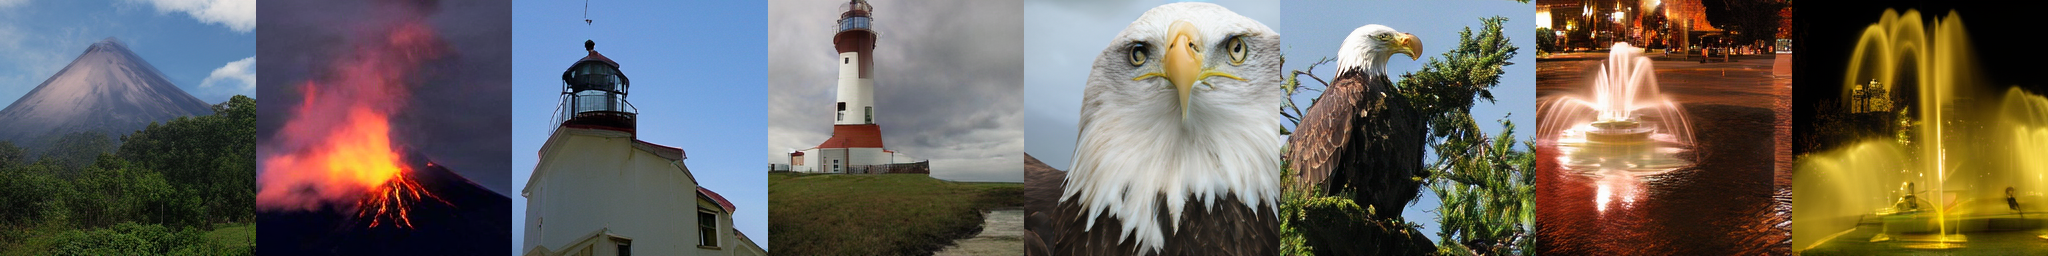
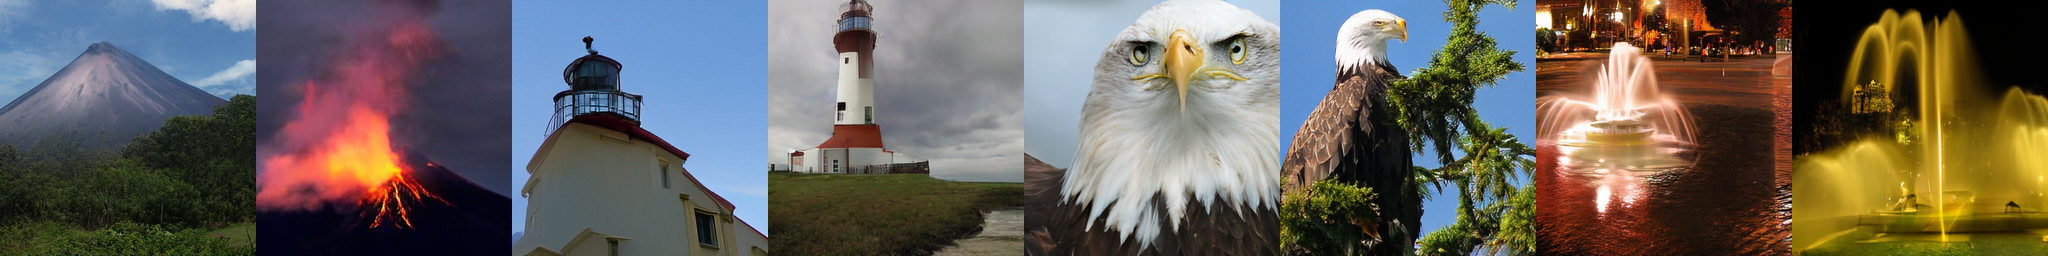
Done lora only Inference

diff --git a/models/lora_utils.py b/models/lora_utils.py
@@ -1,0 +1,29 @@
+import torch
+import torch.nn as nn
+
+class LoRALinear(nn.Module):
+    def __init__(self, in_dim, out_dim, rank=4, scale=1.0, lora_only=False, bias=True):
+        super().__init__()
+        self.lora_only = lora_only
+        self.scale = scale
+        self.rank = rank
+
+        if not lora_only:
+            self.weight = nn.Parameter(torch.empty(out_dim, in_dim))
+            nn.init.kaiming_uniform_(self.weight, a=5 ** 0.5)
+        else:
+            self.weight = None
+
+        self.lora_A = nn.Parameter(torch.randn(rank, in_dim) * 0.01)
+        self.lora_B = nn.Parameter(torch.randn(out_dim, rank) * 0.01)
+        self.bias = nn.Parameter(torch.zeros(out_dim)) if bias else None
+
+    def forward(self, x):
+        delta = self.lora_B @ self.lora_A  # (out_dim x in_dim)
+        w_eff = delta * self.scale
+        if not self.lora_only:
+            w_eff = w_eff + self.weight
+        out = x @ w_eff.T
+        if self.bias is not None:
+            out += self.bias
+        return out

diff --git a/models/basic_var.py b/models/basic_var.py
@@ -6,6 +6,9 @@ import torch.nn.functional as F
 
 from models.helpers import DropPath, drop_path
 
+#! Add lora import
+from models.lora_utils import LoRALinear
+
 
 # this file only provides the 3 blocks used in VAR transformer
 __all__ = ['FFN', 'AdaLNSelfAttn', 'AdaLNBeforeHead']
@@ -36,7 +39,9 @@ class FFN(nn.Module):
         self.fused_mlp_func = fused_mlp_func if fused_if_available else None
         out_features = out_features or in_features
         hidden_features = hidden_features or in_features
-        self.fc1 = nn.Linear(in_features, hidden_features)
+        #! 지금은 단순성 유지 위해 fc2, SelfAttention에는 LoRA 안 넣음
+        # self.fc1 = nn.Linear(in_features, hidden_features)
+        self.fc1 = LoRALinear(in_features, hidden_features, rank=4, lora_only=False)
         self.act = nn.GELU(approximate='tanh')
         self.fc2 = nn.Linear(hidden_features, out_features)
         self.drop = nn.Dropout(drop, inplace=True) if drop > 0 else nn.Identity()

diff --git a/inference.py b/inference.py
@@ -31,7 +31,8 @@ if 'vae' not in globals() or 'var' not in globals():
 
 # # load checkpoints
 vae.load_state_dict(torch.load(vae_ckpt, map_location='cpu'), strict=True)
-var.load_state_dict(torch.load(var_ckpt, map_location='cpu'), strict=True)
+#! 잠시 strict=False로 해서 추론으로 lora 작동하는지 체크
+var.load_state_dict(torch.load(var_ckpt, map_location='cpu'), strict=False)
 vae.eval(), var.eval()
 for p in vae.parameters(): p.requires_grad_(False)
 for p in var.parameters(): p.requires_grad_(False)
